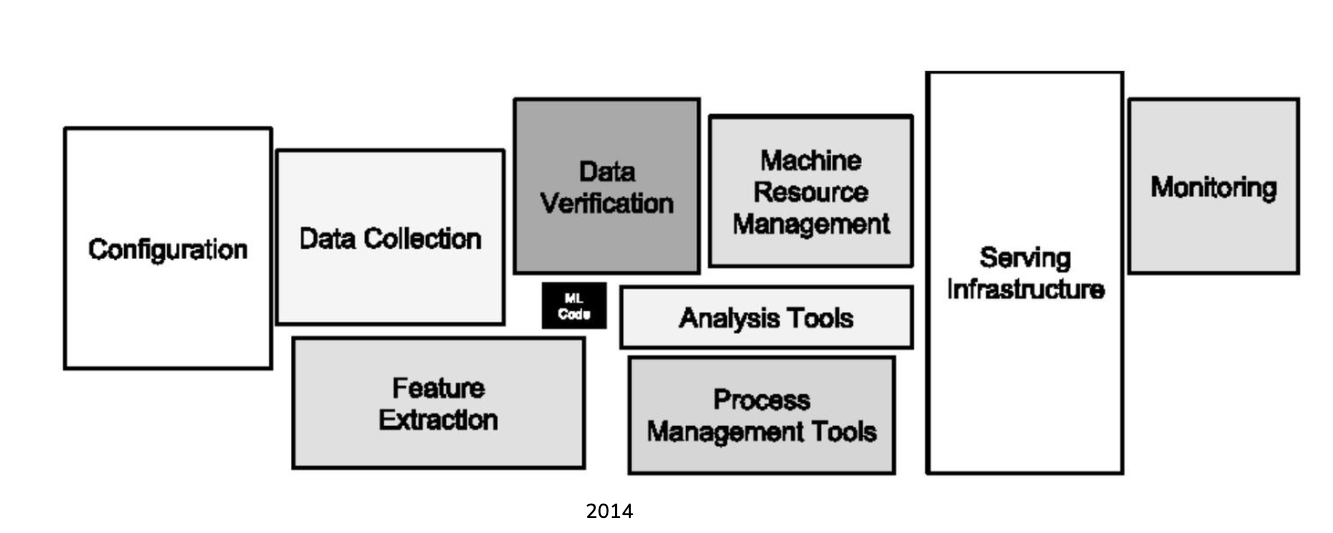
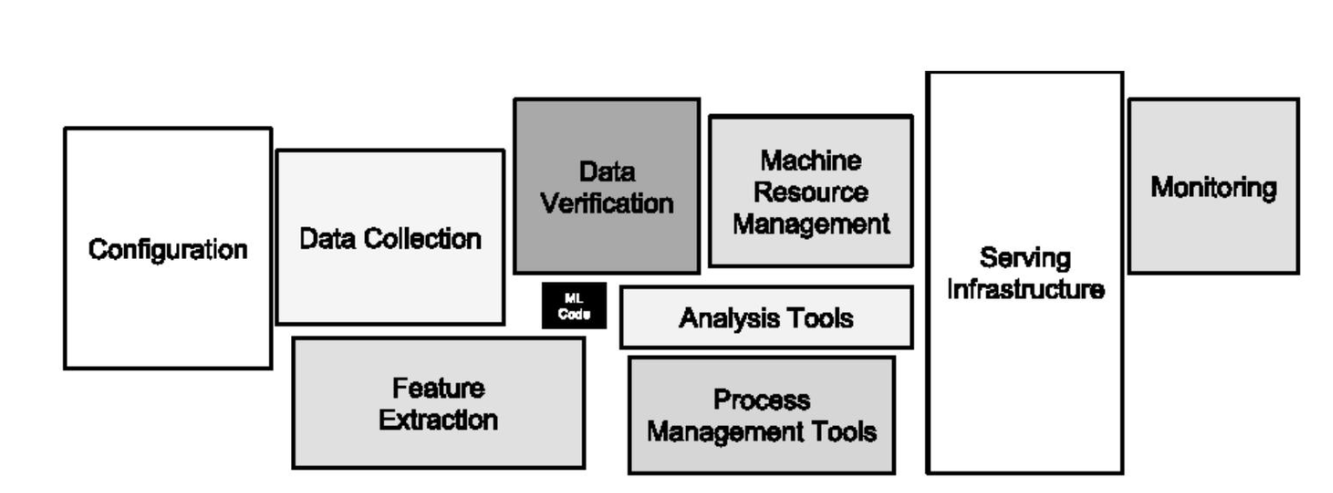
Update Act I debt-overlay diagrams to latest versions

diff --git a/build.py b/build.py
@@ -44,7 +44,7 @@ EXTRA_CSS = """
   /* ─── ACT I — DEBT OVERLAY (click/key reveal, no opacity blend) ─── */
   .s-overlay { background: var(--paper); }
   .s-overlay .ov-stage { flex: 1; min-height: 0; display: flex; align-items: center; justify-content: center; padding: clamp(8px, 1.6vh, 22px) 0; }
-  .s-overlay .figure { position: relative; width: min(88%, 1120px); max-height: 100%; aspect-ratio: 1333 / 533; cursor: pointer; }
+  .s-overlay .figure { position: relative; width: min(88%, 1120px); max-height: 100%; aspect-ratio: 1333 / 493; cursor: pointer; }
   .s-overlay .figure img { position: absolute; inset: 0; width: 100%; height: 100%; display: block; object-fit: contain; }
   .s-overlay .figure .base { z-index: 1; }
   .s-overlay .figure .ov { z-index: 2; opacity: 0; transition: opacity 520ms ease; }